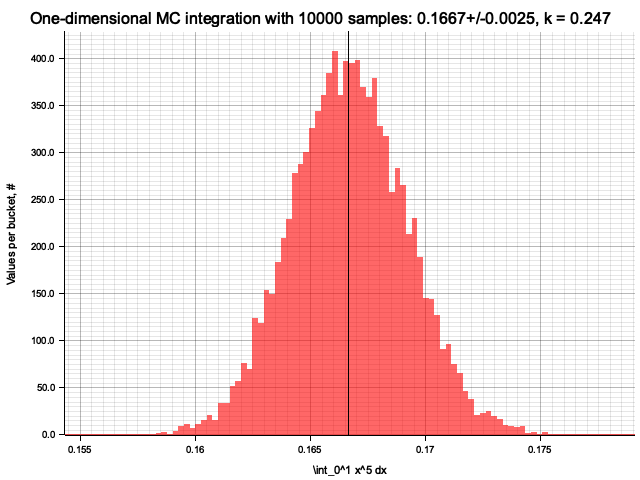
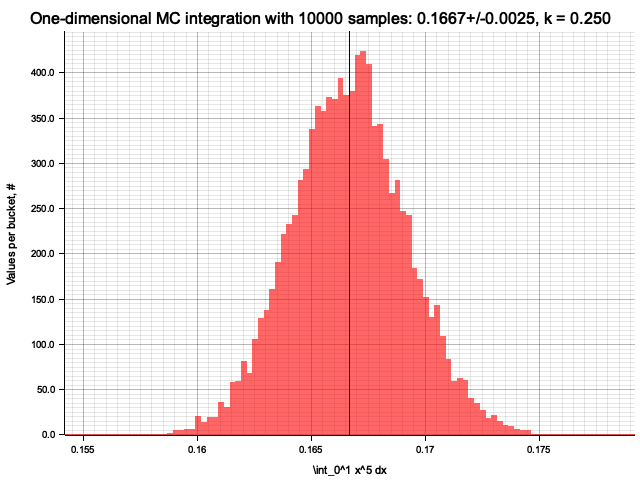
minor

diff --git a/src/ex5.rs b/src/ex5.rs
@@ -16,14 +16,12 @@ fn onedim_mc_integration(rng: &mut ThreadRng, pow: i32, sample_count: usize) -> 
     func_mean // *(b - a), but in this case it's 1
 }
 
-pub fn ex5() {
-    let mut rng = rand::thread_rng();
-
+fn plot_onedim_mc_integration_distributions(rng: &mut ThreadRng) {
     for pow in [1, 2, 3, 4, 5] {
-        for sample_count in [1_000, 10_000, 50_000] {
+        for sample_count in [1_000, 10_000, 100_000] {
             let estimations_count = 10_000;
             let estimations = (0..estimations_count)
-                .map(|_| onedim_mc_integration(&mut rng, pow, sample_count))
+                .map(|_| onedim_mc_integration(rng, pow, sample_count))
                 .collect::<Vec<_>>();
             let (mu, sigma) = mean_std(&estimations);
             let k_est = sigma * (sample_count as f32).sqrt();
@@ -53,4 +51,10 @@ pub fn ex5() {
             .expect("Failed to plot histogram");
         }
     }
+}
+
+pub fn ex5() {
+    let mut rng = rand::thread_rng();
+
+    plot_onedim_mc_integration_distributions(&mut rng);
 }
